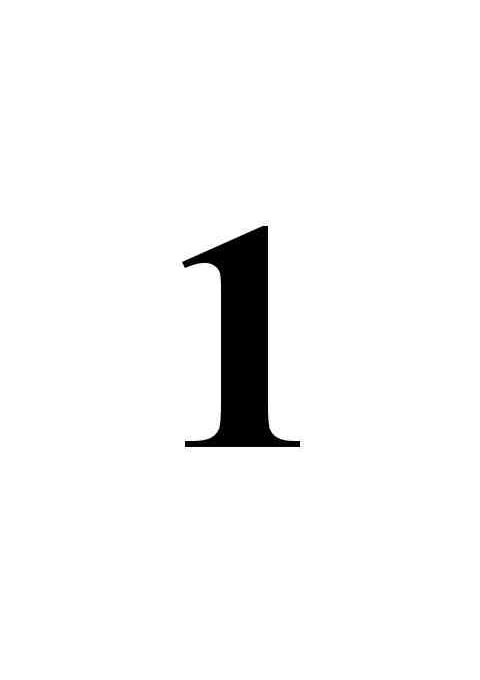
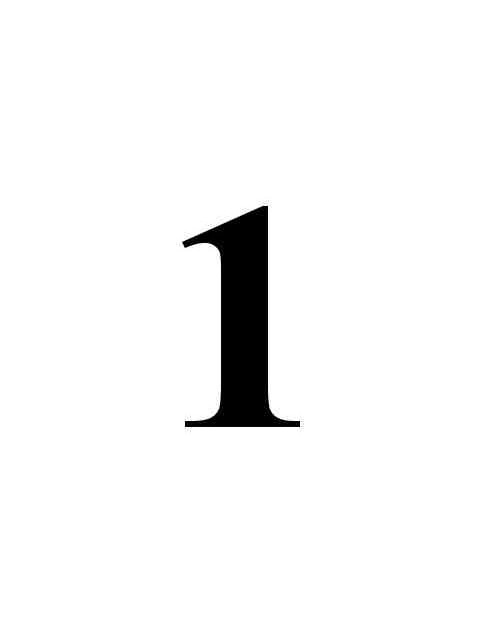
Add rotation to the tkpho unittest, and make sure resize_to_fit takes rotation into account

Changed region(s): [[0.375, 0.625, 0.625, 0.6875], [0.375, 0.3438, 0.5, 0.4062], [0.5, 0.3125, 0.5625, 0.3438]]

diff --git a/test/test_tkpho.py b/test/test_tkpho.py
@@ -99,15 +99,14 @@ class TestTkPhoWindow(unittest.TestCase):
         # Check title
         title = get_window_title(window_id)
         # print("Actual title: '%s'" % title)
-        self.assertEqual(title, "Pho: test/files/portrait.jpg (480 x 680)")
+        self.assertEqual(title, "Pho: test/files/portrait.jpg (480 x 640)")
 
-        # # Send right arrow to rotate
-        # send_key(window_id, "Right")
-        # time.sleep(1)
-        # width, height = get_window_size(window_id)
-        # self.assert_compare_sizes((width, height), (640, 480))
+        # Send right arrow to rotate
+        send_key(window_id, "Right")
+        time.sleep(1)
+        width, height = get_window_size(window_id)
+        self.assert_compare_sizes((width, height), (640, 480))
 
-        time.sleep(2)
         print("Quitting ...")
         # For some reason, send_key(window_id, "q") results in an endless
         # stream of 'q's to the terminal after the test exits,
@@ -121,6 +120,7 @@ class TestTkPhoWindow(unittest.TestCase):
         subprocess.run(["xdotool", "key", "--clearmodifiers", "q"])
         # restore focus
         subprocess.run(["xdotool", "windowfocus", "--sync", str(original_focus)])
+        time.sleep(1)
 
 if __name__ == "__main__":
     unittest.main()

diff --git a/metapho/tkpho/tk_pho_widget.py b/metapho/tkpho/tk_pho_widget.py
@@ -161,6 +161,9 @@ class tkPhoWidget (tk.Label):
 
         tkimg = ImageTk.PhotoImage(pil_img)
         if not self.fullscreen and not self.fixed_size:
+            if tk_pho_image.VERBOSE:
+                print("variable sized window: setting size to",
+                      tkimg.width(), tkimg.height())
             self.set_size((tkimg.width(), tkimg.height()))
         self.config(image=tkimg)
         # self.image = tkimg
@@ -216,7 +219,9 @@ class tkPhoWidget (tk.Label):
                target is width, height.
             """
             scaled_img_size = [x * self.scale_factor
-                               for x in cur_img.orig_img.size]
+                               for x in img.orig_img.size]
+            if img.rot % 180 != 0:
+                scaled_img_size = [ scaled_img_size[1], scaled_img_size[0] ]
             if tk_pho_image.VERBOSE:
                 print("scaled_img_size:", scaled_img_size, "for target", target)
             if (scaled_img_size[0] < target[0]
@@ -272,7 +277,7 @@ class tkPhoWidget (tk.Label):
                 print("TkPhoWidget.resize_to_fit, fullscreen, targeting",
                       target_size)
 
-        elif not self.fixed_size:                  # resizable
+        elif not self.fixed_size:                  # variable-size window
             target_size = (self.root.winfo_screenwidth()
                            * FRAC_OF_SCREEN * self.scale_factor,
                            self.root.winfo_screenheight()